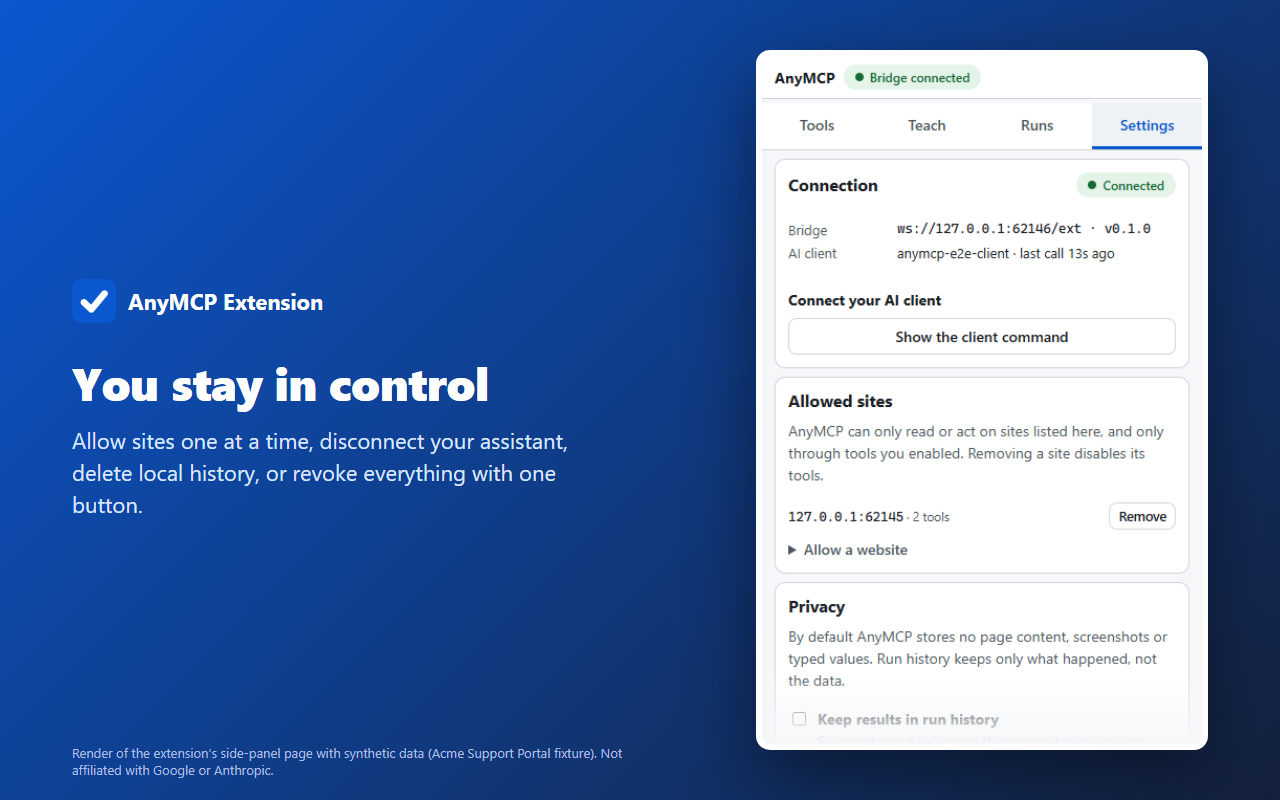
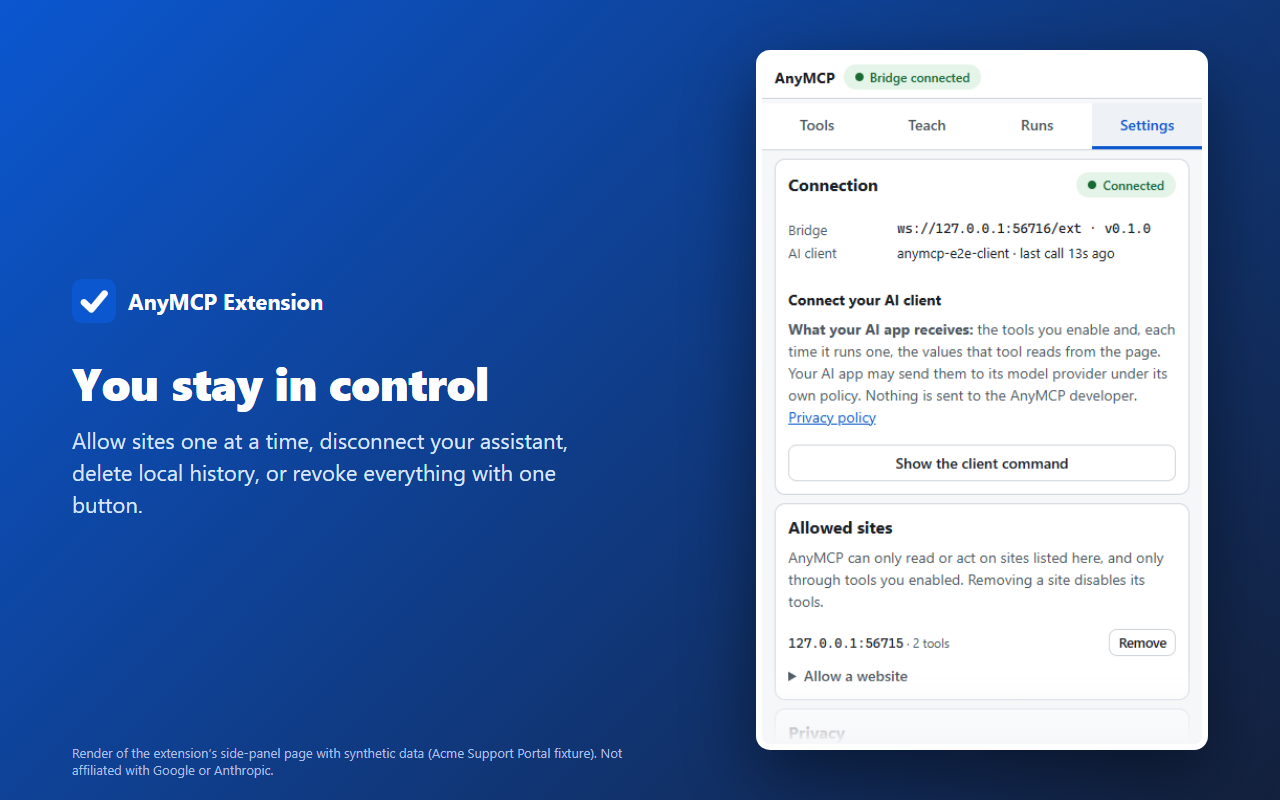
Side panel says what the AI app receives, before connecting and enabling
Checked against the Chrome Web Store policies: a product that handles user
data must prominently disclose what it handles and how before the user
consents, and the store now expects every data flow to be disclosed in the
product. The store listing and privacy policy said that tool results go to
the user's AI app and possibly its model provider, but the side panel never
did.

Now, where the user connects an AI app (first-run step 3 and Settings), the
panel states what that app receives (the enabled tools and each run's values
read from the page), that it may pass them to its model provider, and that
nothing reaches the developer, with a link to the privacy policy. Next to
each tool's Enable button it says the same for that tool. ui-journey
asserts both notices; axe finds no WCAG A/AA violations (light and dark);
full browser suite 67/67. The privacy policy mentions the notices and states
Limited Use compliance explicitly, in the form the store's policy gives;
the listing records where disclosure and consent happen. Store images
regenerated from the real panel (the Settings image shows the notice).

Changed region(s): [[0.5938, 0.4062, 0.9375, 0.9375], [0.875, 0.625, 0.9062, 0.6562], [0.7812, 0.2812, 0.8125, 0.3125]]

diff --git a/packages/extension/src/sidepanel/screens/Connect.tsx b/packages/extension/src/sidepanel/screens/Connect.tsx
@@ -3,6 +3,20 @@ import type { PanelState } from "../../shared/types";
 import { ago, call } from "../api";
 import { Banner, CopyLine } from "../ui";
 
+const PRIVACY_POLICY_URL = "https://dilipna.github.io/AnyMCP/privacy-policy";
+
+/** What connecting an AI app means for the user's data, shown before they connect one (store disclosure rules). */
+export function DataFlowNotice() {
+  return (
+    <p className="muted" data-testid="data-flow-notice">
+      <strong>What your AI app receives:</strong> the tools you enable and, each time it runs one, the values that tool
+      reads from the page. Your AI app may send them to its model provider under its own policy. Nothing is sent to the
+      AnyMCP developer.{" "}
+      <a href={PRIVACY_POLICY_URL} target="_blank" rel="noopener noreferrer">Privacy policy</a>
+    </p>
+  );
+}
+
 interface Creds {
   mcpUrl: string;
   token: string;
@@ -83,6 +97,7 @@ export function Connect({ state, compact = false }: { state: PanelState; compact
         <div className="stack">
           <h3>3 · Connect your AI client</h3>
           <p className="muted">Available after pairing. You will copy one command into a terminal.</p>
+          <DataFlowNotice />
         </div>
       </section>
     );
@@ -118,6 +133,7 @@ export function Connect({ state, compact = false }: { state: PanelState; compact
       {c.state === "connected" && (
         <div className="stack">
           <h3>Connect your AI client</h3>
+          <DataFlowNotice />
           {!creds ? (
             <button type="button" className="btn" onClick={() => void showCreds()}>
               Show the client command

diff --git a/e2e/ui-journey.spec.ts b/e2e/ui-journey.spec.ts
@@ -16,6 +16,9 @@ test("connect and pair using the on-screen steps only", async () => {
   await p.reload();
   await expect(p.getByRole("heading", { name: "Connect AnyMCP to your AI assistant" })).toBeVisible();
   await expect(p.getByText("npm run bridge")).toBeVisible();
+  // before connecting an AI app, the panel says what that app will receive (Chrome Web Store disclosure rules)
+  await expect(p.getByTestId("data-flow-notice")).toContainText("may send them to its model provider");
+  await expect(p.getByTestId("data-flow-notice").getByRole("link", { name: "Privacy policy" })).toHaveAttribute("href", "https://dilipna.github.io/AnyMCP/privacy-policy");
   // the Advanced box lets a person target a non-default bridge port (the test bridge uses a random one)
   await p.getByRole("button", { name: /advanced/i }).click();
   await p.getByLabel("Bridge address").fill(s.bridge.extUrl);
@@ -91,7 +94,9 @@ test("teach → review → save → test → enable → use via MCP → disconne
   await expect(p.getByText("Tested — not enabled").first()).toBeVisible();
 
   // ---- 5. enable → an MCP client can now use it ----
+  await expect(p.getByTestId("enable-notice")).toContainText("receive what it reads"); // informed consent at the switch
   await p.getByRole("button", { name: "Enable for my AI assistant" }).click();
+  await expect(p.getByTestId("enable-notice")).toHaveCount(0);
   await expect(p.getByText("Enabled", { exact: true }).first()).toBeVisible();
   const d = Date.now() + 8000;
   while (!s.bridge.hub.getTool("ui_journey_find_order") && Date.now() < d) await sleep(50);

diff --git a/packages/extension/src/sidepanel/screens/Tools.tsx b/packages/extension/src/sidepanel/screens/Tools.tsx
@@ -277,6 +277,7 @@ function ToolDetail({ row, state, onBack }: { row: ToolRow; state: PanelState; o
           )}
           <button type="button" className="btn" onClick={() => setEditing(true)} disabled={!def}>Edit…</button>
         </div>
+        {!isEnabled && <small className="muted" data-testid="enable-notice">Enabling lets your AI app run this tool and receive what it reads (see “What data it reads” below); your AI app may pass that to its model provider.</small>}
         {!vrow.tested && !isEnabled && <small className="muted">Enabling unlocks after a successful test of this exact version. Any edit creates a new version that needs its own test.</small>}
       </div>
 

diff --git a/docs/privacy-policy.md b/docs/privacy-policy.md
@@ -16,7 +16,8 @@ app you choose (an MCP client) run website tasks you taught and approved.
   server run by the developer. There is no analytics, telemetry or advertising, and no remotely hosted code.
 * **Data does leave your computer through the AI app you connect.** When your AI app calls an AnyMCP tool, the values
   the tool reads from the web page are given to that app, and AI apps normally send them to their model provider.
-  That part is governed by your AI app's and its provider's policies, not by this one.
+  That part is governed by your AI app's and its provider's policies, not by this one. The side panel says this where
+  you connect an AI app and next to the switch that enables each tool.
 
 ## Where data goes, step by step
 
@@ -65,9 +66,10 @@ website** and confirm Chrome's prompt. It has no website access at install. Each
 
 ## Children, sale of data, advertising
 
-AnyMCP is not directed at children. The developer does not sell, share or use your data for advertising,
-creditworthiness or lending; use of data is limited to providing the feature described above (Chrome Web Store User
-Data Policy, including Limited Use).
+AnyMCP is not directed at children. The developer does not sell or transfer your data and does not use it for
+advertising, creditworthiness or lending. **AnyMCP's use of information it accesses through Chrome's extension APIs
+adheres to the Chrome Web Store User Data Policy, including the Limited Use requirements:** it is used only to provide
+the feature described above, and no person at the developer can read it, because none of it reaches the developer.
 
 ## Security
 

diff --git a/store/listing.md b/store/listing.md
@@ -73,6 +73,16 @@ history*: not collected (the extension cannot see the addresses of tabs on sites
 communications, user activity*: not collected. Not sold, not used for unrelated purposes, not used for
 creditworthiness. [OWNER: confirm each answer in the dashboard.]
 
+**In-product disclosure and consent** (Disclosure Requirements policy). Before the user connects an AI app (the
+Connect step on first run, and Settings) the side panel states what that app will receive (the enabled tools and each
+run's values read from the page), that the app may pass them to its model provider, and that nothing reaches the
+developer, with a link to the privacy policy. Next to each tool's Enable button it says the same for that tool; enabling
+is the user's affirmative choice, per tool. Site access is requested per site through Chrome's own prompt. Both
+notices are checked by `e2e/ui-journey.spec.ts`.
+
+**Limited Use.** The privacy policy carries the affirmative Limited Use statement (section "Children, sale of data,
+advertising"); tick the Limited Use certification in the dashboard's Privacy practices tab.
+
 **Local companion.** The extension connects to a program the user runs on the same computer (`ws://127.0.0.1`).
 Stated in the description and in the privacy policy.
 

diff --git a/CHANGELOG.md b/CHANGELOG.md
@@ -32,6 +32,9 @@ Limits and evidence: [compatibility](docs/compatibility.md), [known limitations]
   a required parameter named `constructor` is enforced; a missing `constructor` argument is no longer filled in as
   `function Object() { [native code] }`; values that differ only by a `__proto__` key no longer hash the same
   (approval binding, duplicate detection, tool versions). All found by new property-based tests.
+* The side panel now says, before you connect an AI app and next to each tool's Enable button, what that app will
+  receive and that it may pass it to its model provider (Chrome Web Store disclosure rules); the privacy policy states
+  Limited Use compliance explicitly.
 * The bridge refuses a request nested more than 64 levels deep with a clear 400. Before, a body nested a few
   thousand levels deep made the MCP SDK fail while re-serialising it and answer 500 (found by the network fuzz
   tests; it needed the bridge token and the bridge kept running).
